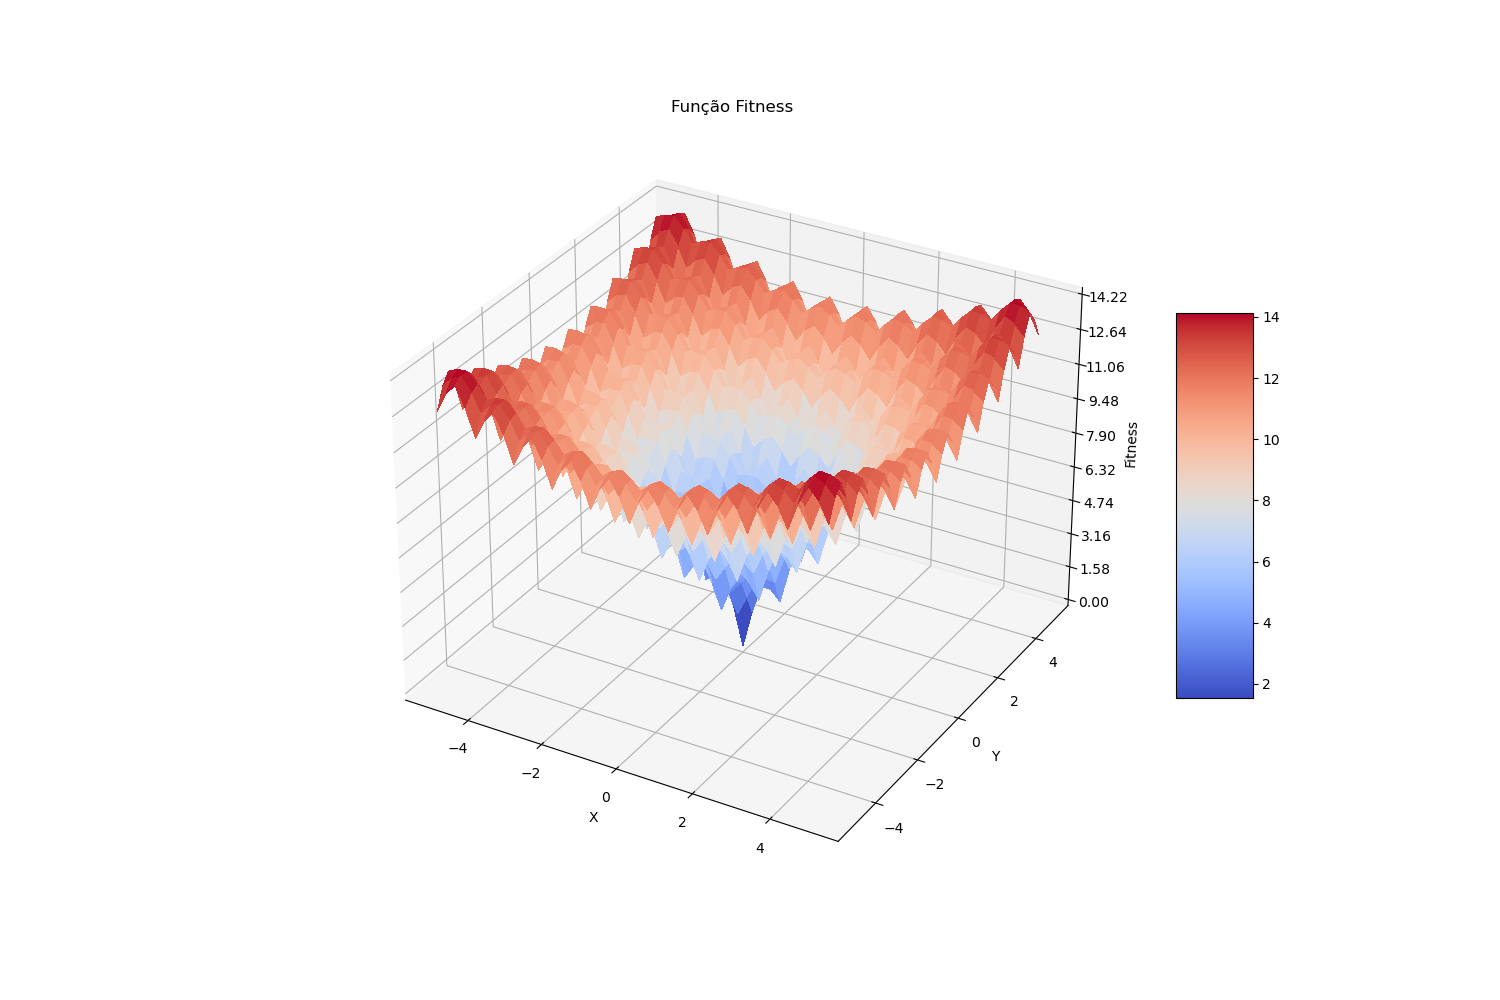
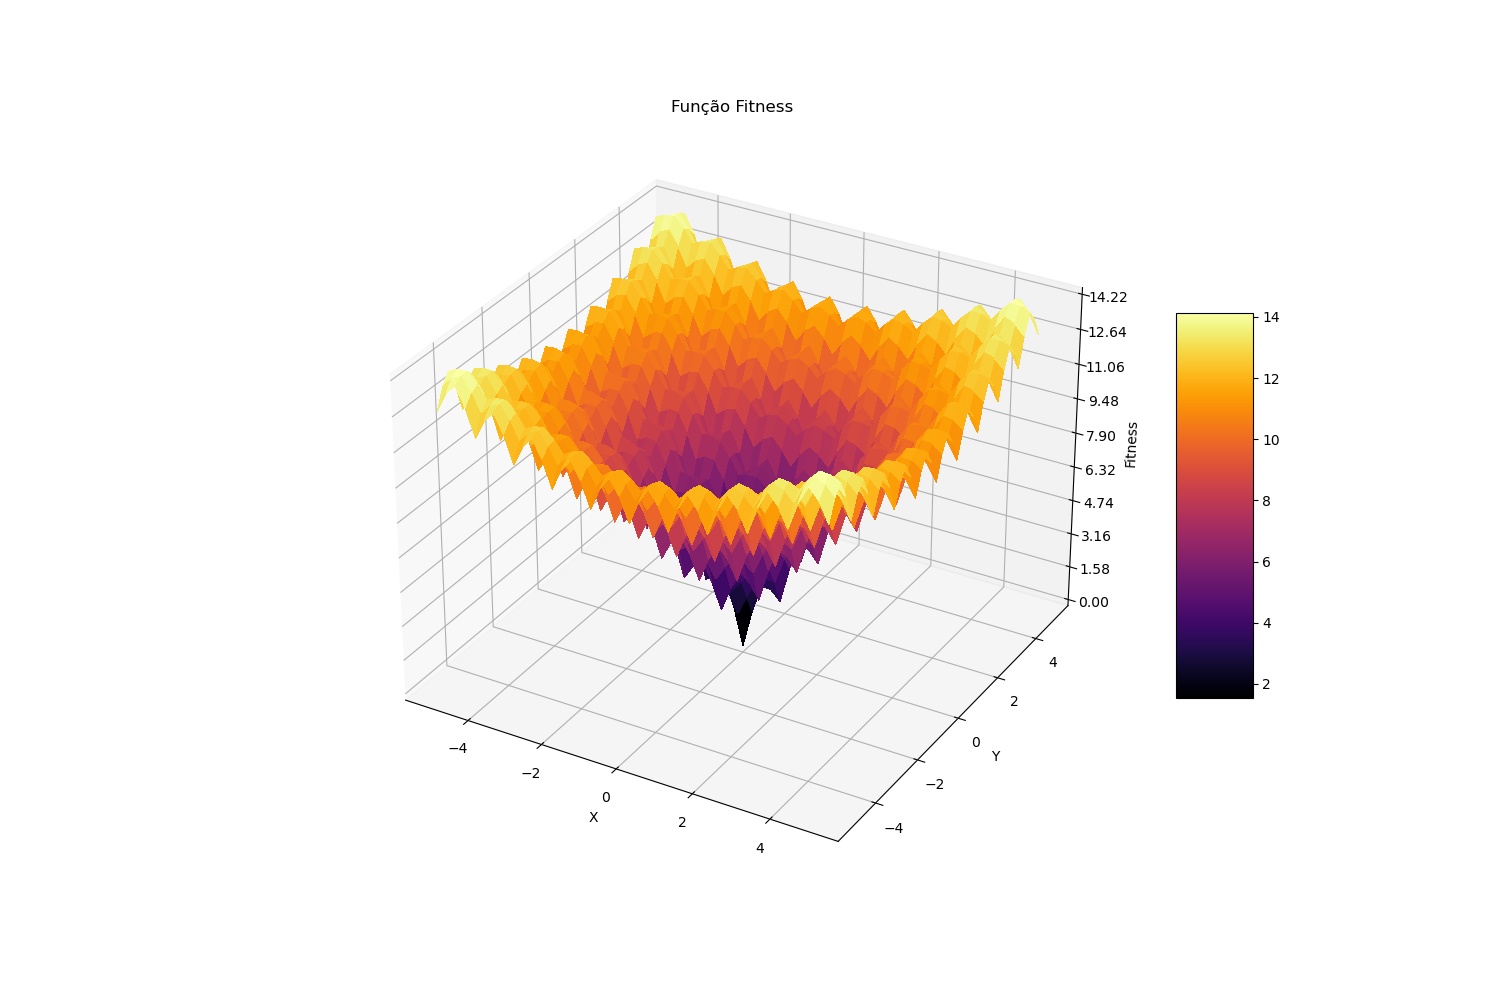
commit 27-04-2025 by rodrigo

Changed region(s): [[0.276, 0.217, 0.7053, 0.651], [0.7667, 0.31, 0.8587, 0.713]]

diff --git a/ex2/plotarAckley.py b/ex2/plotarAckley.py
@@ -41,7 +41,7 @@ for i in range(X.shape[0]):
         Z[i, j] = fitness(gene)
 
 # Plot the surface
-surf = ax.plot_surface(X, Y, Z, cmap=cm.coolwarm, linewidth=0, antialiased=False)
+surf = ax.plot_surface(X, Y, Z, cmap=cm.inferno, linewidth=0, antialiased=False)
 
 # Customize the z axis
 ax.set_zlim(np.min(Z), np.max(Z))
